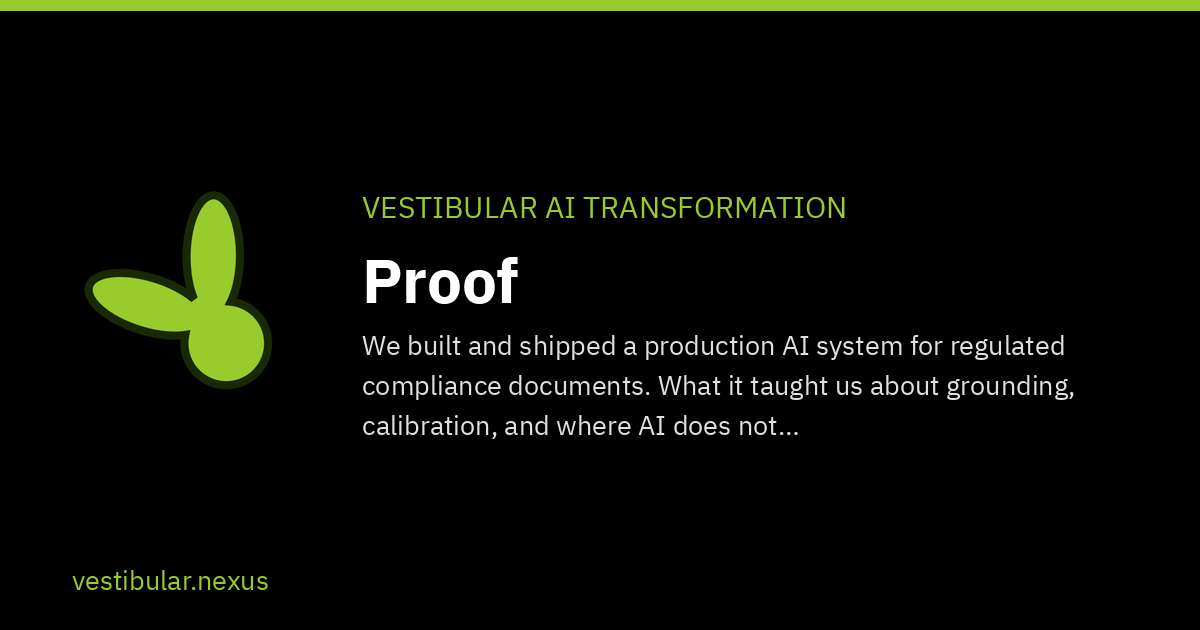
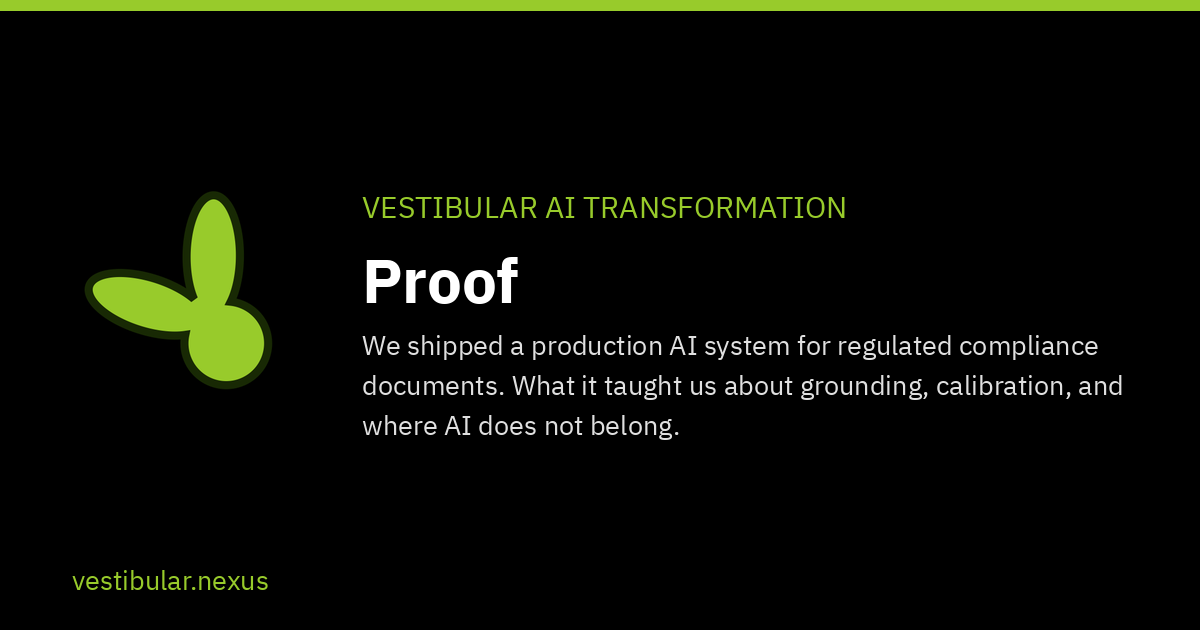
feat(meta): one description per page, and a guard that keeps it that way
One sentence was serving four pages. index.html, playbook.html and
services.html carried BYTE-IDENTICAL descriptions, and diagnostic.html carried
the same sentence with two clauses swapped — "rebuild morale, declutter Agile
tooling" against "declutter Agile tooling, rebuild morale". 11 pages held 9
distinct strings. Search engines were given one summary for four URLs, and two
cards drew identical description pixels under different headlines.

Only one of the four was actually WRONG rather than merely generic. playbook
and services are Agile pages, so an Agile sentence there wastes the snippet but
does not lie. index.html is a two-practice router — its own h1 reads "Fix your
framework. Flex AI. Free your humans." and its body asks "Two practices. Which
sounds like you?" — and it was describing itself to search as an Agile tooling
engagement.

So index.html takes the founder's option C: title becomes "Vestibular Agile &
AI Transformation", carrying the brand for a search result while the SHARE CARD
keeps the hero's voice from the parent commit. The two diverge deliberately and
now do so on top of a title that is true. Before this, the card said one thing
and the Google result said another, and the card being right made the stale
title easier to miss.

⚠ A CLAIM FROM THIS SESSION, CORRECTED. contact.html's description was reported
as naming "a product that does not exist" — the Agile Sanitation playbook. It
[…]

Changed region(s): [[0.3392, 0.5127, 0.925, 0.573], [0.3083, 0.6032, 0.9558, 0.6333], [0.3083, 0.6635, 0.6475, 0.6937]]

diff --git a/index.html b/index.html
@@ -4,7 +4,7 @@
 <!-- GENERATED:page_head START · source content/practices.json · regen: node tools/render_content.mjs · DO NOT EDIT BELOW -->
   <meta charset="utf-8" />
   <meta name="viewport" content="width=device-width,initial-scale=1" />
-  <meta name="description" content="Vestibular Agile Transformation helps tech teams declutter Agile tooling, rebuild morale, and scale with a modular, science-backed playbook." />
+  <meta name="description" content="Two consulting practices: Agile Transformation for delivery that has stalled, and AI-Transformational Business Analysis for AI that never lands." />
   <meta name="theme-color" content="#000000" />
 
   <!-- Favicons -->
@@ -13,7 +13,7 @@
   <link rel="icon" type="image/png" sizes="16x16" href="assets/favicon-16x16.png">
   <link rel="manifest" href="assets/site.webmanifest">
 
-  <title>Vestibular Agile Transformation</title>
+  <title>Vestibular Agile &amp; AI Transformation</title>
   <link rel="canonical" href="https://vestibular.nexus/" />
 
   <!-- Open Graph / Twitter. Cards are 1200x630 PNGs generated from this
@@ -22,15 +22,15 @@
   <meta property="og:type" content="website" />
   <meta property="og:site_name" content="Vestibular" />
   <meta property="og:url" content="https://vestibular.nexus/" />
-  <meta property="og:title" content="Vestibular Agile Transformation" />
-  <meta property="og:description" content="Vestibular Agile Transformation helps tech teams declutter Agile tooling, rebuild morale, and scale with a modular, science-backed playbook." />
+  <meta property="og:title" content="Vestibular Agile &amp; AI Transformation" />
+  <meta property="og:description" content="Two consulting practices: Agile Transformation for delivery that has stalled, and AI-Transformational Business Analysis for AI that never lands." />
   <meta property="og:image" content="https://vestibular.nexus/assets/og/index.png" />
   <meta property="og:image:width" content="1200" />
   <meta property="og:image:height" content="630" />
-  <meta property="og:image:alt" content="Vestibular Agile Transformation" />
+  <meta property="og:image:alt" content="Vestibular Agile &amp; AI Transformation" />
   <meta name="twitter:card" content="summary_large_image" />
-  <meta name="twitter:title" content="Vestibular Agile Transformation" />
-  <meta name="twitter:description" content="Vestibular Agile Transformation helps tech teams declutter Agile tooling, rebuild morale, and scale with a modular, science-backed playbook." />
+  <meta name="twitter:title" content="Vestibular Agile &amp; AI Transformation" />
+  <meta name="twitter:description" content="Two consulting practices: Agile Transformation for delivery that has stalled, and AI-Transformational Business Analysis for AI that never lands." />
   <meta name="twitter:image" content="https://vestibular.nexus/assets/og/index.png" />
 
   <link rel="preconnect" href="https://fonts.googleapis.com">

diff --git a/ai-transformation.html b/ai-transformation.html
@@ -4,7 +4,7 @@
 <!-- GENERATED:page_head START · source content/practices.json · regen: node tools/render_content.mjs · DO NOT EDIT BELOW -->
   <meta charset="utf-8" />
   <meta name="viewport" content="width=device-width,initial-scale=1" />
-  <meta name="description" content="AI-Transformational Business Analysis: operating model redesign, AI opportunity identification, and value modelling grounded in what your team already knows." />
+  <meta name="description" content="AI-Transformational Business Analysis: operating model redesign, AI opportunity identification and value modelling, grounded in what your team knows." />
   <meta name="theme-color" content="#000000" />
 
   <!-- Favicons -->
@@ -23,14 +23,14 @@
   <meta property="og:site_name" content="Vestibular" />
   <meta property="og:url" content="https://vestibular.nexus/ai-transformation" />
   <meta property="og:title" content="Vestibular AI Transformation – Business Analysis" />
-  <meta property="og:description" content="AI-Transformational Business Analysis: operating model redesign, AI opportunity identification, and value modelling grounded in what your team already knows." />
+  <meta property="og:description" content="AI-Transformational Business Analysis: operating model redesign, AI opportunity identification and value modelling, grounded in what your team knows." />
   <meta property="og:image" content="https://vestibular.nexus/assets/og/ai-transformation.png" />
   <meta property="og:image:width" content="1200" />
   <meta property="og:image:height" content="630" />
   <meta property="og:image:alt" content="Vestibular AI Transformation – Business Analysis" />
   <meta name="twitter:card" content="summary_large_image" />
   <meta name="twitter:title" content="Vestibular AI Transformation – Business Analysis" />
-  <meta name="twitter:description" content="AI-Transformational Business Analysis: operating model redesign, AI opportunity identification, and value modelling grounded in what your team already knows." />
+  <meta name="twitter:description" content="AI-Transformational Business Analysis: operating model redesign, AI opportunity identification and value modelling, grounded in what your team knows." />
   <meta name="twitter:image" content="https://vestibular.nexus/assets/og/ai-transformation.png" />
 
   <link rel="preconnect" href="https://fonts.googleapis.com">

diff --git a/contact.html b/contact.html
@@ -4,7 +4,7 @@
 <!-- GENERATED:page_head START · source content/practices.json · regen: node tools/render_content.mjs · DO NOT EDIT BELOW -->
   <meta charset="utf-8" />
   <meta name="viewport" content="width=device-width,initial-scale=1" />
-  <meta name="description" content="Contact Vestibular Agile Transformation — book a consult or ask about our Agile Sanitation playbook." />
+  <meta name="description" content="Start with a free conversation about what is slowing your team down. We will tell you where we can help, and where we cannot." />
   <meta name="theme-color" content="#000000" />
 
   <!-- Favicons -->
@@ -23,14 +23,14 @@
   <meta property="og:site_name" content="Vestibular" />
   <meta property="og:url" content="https://vestibular.nexus/contact" />
   <meta property="og:title" content="Contact – Vestibular" />
-  <meta property="og:description" content="Contact Vestibular Agile Transformation — book a consult or ask about our Agile Sanitation playbook." />
+  <meta property="og:description" content="Start with a free conversation about what is slowing your team down. We will tell you where we can help, and where we cannot." />
   <meta property="og:image" content="https://vestibular.nexus/assets/og/contact.png" />
   <meta property="og:image:width" content="1200" />
   <meta property="og:image:height" content="630" />
   <meta property="og:image:alt" content="Contact – Vestibular" />
   <meta name="twitter:card" content="summary_large_image" />
   <meta name="twitter:title" content="Contact – Vestibular" />
-  <meta name="twitter:description" content="Contact Vestibular Agile Transformation — book a consult or ask about our Agile Sanitation playbook." />
+  <meta name="twitter:description" content="Start with a free conversation about what is slowing your team down. We will tell you where we can help, and where we cannot." />
   <meta name="twitter:image" content="https://vestibular.nexus/assets/og/contact.png" />
 
   <link rel="preconnect" href="https://fonts.googleapis.com">
@@ -87,8 +87,8 @@
     <div class="hero-content">
       <h1>
         <span>Show us the chaos.</span><br />
-        <span>We'll help you map</span><br />
-        <span>the clarity.</span>
+        <span>We'll draw a map</span><br />
+        <span>to clarity.</span>
       </h1>
 
       <p class="highlighted-intro">

diff --git a/ai-proof.html b/ai-proof.html
@@ -4,7 +4,7 @@
 <!-- GENERATED:page_head START · source content/practices.json · regen: node tools/render_content.mjs · DO NOT EDIT BELOW -->
   <meta charset="utf-8" />
   <meta name="viewport" content="width=device-width,initial-scale=1" />
-  <meta name="description" content="We built and shipped a production AI system for regulated compliance documents. What it taught us about grounding, calibration, and where AI does not belong." />
+  <meta name="description" content="We shipped a production AI system for regulated compliance documents. What it taught us about grounding, calibration, and where AI does not belong." />
   <meta name="theme-color" content="#000000" />
 
   <!-- Favicons -->
@@ -23,14 +23,14 @@
   <meta property="og:site_name" content="Vestibular" />
   <meta property="og:url" content="https://vestibular.nexus/ai-proof" />
   <meta property="og:title" content="Vestibular AI Transformation – Proof" />
-  <meta property="og:description" content="We built and shipped a production AI system for regulated compliance documents. What it taught us about grounding, calibration, and where AI does not belong." />
+  <meta property="og:description" content="We shipped a production AI system for regulated compliance documents. What it taught us about grounding, calibration, and where AI does not belong." />
   <meta property="og:image" content="https://vestibular.nexus/assets/og/ai-proof.png" />
   <meta property="og:image:width" content="1200" />
   <meta property="og:image:height" content="630" />
   <meta property="og:image:alt" content="Vestibular AI Transformation – Proof" />
   <meta name="twitter:card" content="summary_large_image" />
   <meta name="twitter:title" content="Vestibular AI Transformation – Proof" />
-  <meta name="twitter:description" content="We built and shipped a production AI system for regulated compliance documents. What it taught us about grounding, calibration, and where AI does not belong." />
+  <meta name="twitter:description" content="We shipped a production AI system for regulated compliance documents. What it taught us about grounding, calibration, and where AI does not belong." />
   <meta name="twitter:image" content="https://vestibular.nexus/assets/og/ai-proof.png" />
 
   <link rel="preconnect" href="https://fonts.googleapis.com">

diff --git a/ai-services.html b/ai-services.html
@@ -4,7 +4,7 @@
 <!-- GENERATED:page_head START · source content/practices.json · regen: node tools/render_content.mjs · DO NOT EDIT BELOW -->
   <meta charset="utf-8" />
   <meta name="viewport" content="width=device-width,initial-scale=1" />
-  <meta name="description" content="Six AI-Transformational Business Analysis services: readiness assessment, value case, operating model redesign, requirements and governance, roadmap, and adoption." />
+  <meta name="description" content="Six AI-Transformational Business Analysis services: readiness, value case, operating model redesign, governance, roadmap and adoption." />
   <meta name="theme-color" content="#000000" />
 
   <!-- Favicons -->
@@ -23,14 +23,14 @@
   <meta property="og:site_name" content="Vestibular" />
   <meta property="og:url" content="https://vestibular.nexus/ai-services" />
   <meta property="og:title" content="Vestibular AI Transformation – Services" />
-  <meta property="og:description" content="Six AI-Transformational Business Analysis services: readiness assessment, value case, operating model redesign, requirements and governance, roadmap, and adoption." />
+  <meta property="og:description" content="Six AI-Transformational Business Analysis services: readiness, value case, operating model redesign, governance, roadmap and adoption." />
   <meta property="og:image" content="https://vestibular.nexus/assets/og/ai-services.png" />
   <meta property="og:image:width" content="1200" />
   <meta property="og:image:height" content="630" />
   <meta property="og:image:alt" content="Vestibular AI Transformation – Services" />
   <meta name="twitter:card" content="summary_large_image" />
   <meta name="twitter:title" content="Vestibular AI Transformation – Services" />
-  <meta name="twitter:description" content="Six AI-Transformational Business Analysis services: readiness assessment, value case, operating model redesign, requirements and governance, roadmap, and adoption." />
+  <meta name="twitter:description" content="Six AI-Transformational Business Analysis services: readiness, value case, operating model redesign, governance, roadmap and adoption." />
   <meta name="twitter:image" content="https://vestibular.nexus/assets/og/ai-services.png" />
 
   <link rel="preconnect" href="https://fonts.googleapis.com">

diff --git a/diagnostic.html b/diagnostic.html
@@ -4,7 +4,7 @@
 <!-- GENERATED:page_head START · source content/practices.json · regen: node tools/render_content.mjs · DO NOT EDIT BELOW -->
   <meta charset="utf-8" />
   <meta name="viewport" content="width=device-width,initial-scale=1" />
-  <meta name="description" content="Vestibular Agile Transformation helps tech teams rebuild morale, declutter Agile tooling, and scale with a modular, science-backed playbook." />
+  <meta name="description" content="The Agile diagnostic scorecard: place your team on the maturity lens, then follow the modular progression that fits where it actually sits." />
   <meta name="theme-color" content="#000000" />
 
   <!-- Favicons -->
@@ -23,14 +23,14 @@
   <meta property="og:site_name" content="Vestibular" />
   <meta property="og:url" content="https://vestibular.nexus/diagnostic" />
   <meta property="og:title" content="Vestibular Agile Transformation – Diagnostic" />
-  <meta property="og:description" content="Vestibular Agile Transformation helps tech teams rebuild morale, declutter Agile tooling, and scale with a modular, science-backed playbook." />
+  <meta property="og:description" content="The Agile diagnostic scorecard: place your team on the maturity lens, then follow the modular progression that fits where it actually sits." />
   <meta property="og:image" content="https://vestibular.nexus/assets/og/diagnostic.png" />
   <meta property="og:image:width" content="1200" />
   <meta property="og:image:height" content="630" />
   <meta property="og:image:alt" content="Vestibular Agile Transformation – Diagnostic" />
   <meta name="twitter:card" content="summary_large_image" />
   <meta name="twitter:title" content="Vestibular Agile Transformation – Diagnostic" />
-  <meta name="twitter:description" content="Vestibular Agile Transformation helps tech teams rebuild morale, declutter Agile tooling, and scale with a modular, science-backed playbook." />
+  <meta name="twitter:description" content="The Agile diagnostic scorecard: place your team on the maturity lens, then follow the modular progression that fits where it actually sits." />
   <meta name="twitter:image" content="https://vestibular.nexus/assets/og/diagnostic.png" />
 
   <link rel="preconnect" href="https://fonts.googleapis.com">

diff --git a/services.html b/services.html
@@ -4,7 +4,7 @@
 <!-- GENERATED:page_head START · source content/practices.json · regen: node tools/render_content.mjs · DO NOT EDIT BELOW -->
   <meta charset="utf-8" />
   <meta name="viewport" content="width=device-width,initial-scale=1" />
-  <meta name="description" content="Vestibular Agile Transformation helps tech teams declutter Agile tooling, rebuild morale, and scale with a modular, science-backed playbook." />
+  <meta name="description" content="Six standalone Agile modules that compound: morale-first consulting, tools sanitation, sprint clarity, role design, delivery flow and coaching." />
   <meta name="theme-color" content="#000000" />
 
   <!-- Favicons -->
@@ -23,14 +23,14 @@
   <meta property="og:site_name" content="Vestibular" />
   <meta property="og:url" content="https://vestibular.nexus/services" />
   <meta property="og:title" content="Vestibular Agile Transformation – Services" />
-  <meta property="og:description" content="Vestibular Agile Transformation helps tech teams declutter Agile tooling, rebuild morale, and scale with a modular, science-backed playbook." />
+  <meta property="og:description" content="Six standalone Agile modules that compound: morale-first consulting, tools sanitation, sprint clarity, role design, delivery flow and coaching." />
   <meta property="og:image" content="https://vestibular.nexus/assets/og/services.png" />
   <meta property="og:image:width" content="1200" />
   <meta property="og:image:height" content="630" />
   <meta property="og:image:alt" content="Vestibular Agile Transformation – Services" />
   <meta name="twitter:card" content="summary_large_image" />
   <meta name="twitter:title" content="Vestibular Agile Transformation – Services" />
-  <meta name="twitter:description" content="Vestibular Agile Transformation helps tech teams declutter Agile tooling, rebuild morale, and scale with a modular, science-backed playbook." />
+  <meta name="twitter:description" content="Six standalone Agile modules that compound: morale-first consulting, tools sanitation, sprint clarity, role design, delivery flow and coaching." />
   <meta name="twitter:image" content="https://vestibular.nexus/assets/og/services.png" />
 
   <link rel="preconnect" href="https://fonts.googleapis.com">

diff --git a/playbook.html b/playbook.html
@@ -4,7 +4,7 @@
 <!-- GENERATED:page_head START · source content/practices.json · regen: node tools/render_content.mjs · DO NOT EDIT BELOW -->
   <meta charset="utf-8" />
   <meta name="viewport" content="width=device-width,initial-scale=1" />
-  <meta name="description" content="Vestibular Agile Transformation helps tech teams declutter Agile tooling, rebuild morale, and scale with a modular, science-backed playbook." />
+  <meta name="description" content="The Agile playbook: a diagnostic lens and package progression from Declutter to Optimize, with AI augmentation embedded at every stage." />
   <meta name="theme-color" content="#000000" />
 
   <!-- Favicons -->
@@ -23,14 +23,14 @@
   <meta property="og:site_name" content="Vestibular" />
   <meta property="og:url" content="https://vestibular.nexus/playbook" />
   <meta property="og:title" content="Vestibular Agile Transformation – Playbook" />
-  <meta property="og:description" content="Vestibular Agile Transformation helps tech teams declutter Agile tooling, rebuild morale, and scale with a modular, science-backed playbook." />
+  <meta property="og:description" content="The Agile playbook: a diagnostic lens and package progression from Declutter to Optimize, with AI augmentation embedded at every stage." />
   <meta property="og:image" content="https://vestibular.nexus/assets/og/playbook.png" />
   <meta property="og:image:width" content="1200" />
   <meta property="og:image:height" content="630" />
   <meta property="og:image:alt" content="Vestibular Agile Transformation – Playbook" />
   <meta name="twitter:card" content="summary_large_image" />
   <meta name="twitter:title" content="Vestibular Agile Transformation – Playbook" />
-  <meta name="twitter:description" content="Vestibular Agile Transformation helps tech teams declutter Agile tooling, rebuild morale, and scale with a modular, science-backed playbook." />
+  <meta name="twitter:description" content="The Agile playbook: a diagnostic lens and package progression from Declutter to Optimize, with AI augmentation embedded at every stage." />
   <meta name="twitter:image" content="https://vestibular.nexus/assets/og/playbook.png" />
 
   <link rel="preconnect" href="https://fonts.googleapis.com">

diff --git a/tools/build_og_images.py b/tools/build_og_images.py
@@ -109,7 +109,14 @@ def title_lines_for(page: str, draw, font, max_w: int, cap: int) -> list[str]:
     lines: list[str] = []
     for part in parts:
         lines.extend(wrap(draw, part, font, max_w))
-    return lines[:cap]
+    if len(lines) > cap:
+        sys.exit(
+            f"FAIL: title needs {len(lines)} lines, cap is {cap}.\n"
+            f"  title:   {page!r}\n"
+            f"  dropped: {lines[cap:]!r}\n"
+            f"  Shorten it, or give it fewer phrases."
+        )
+    return lines
 
 
 def split_title(title: str) -> tuple[str, str]:
@@ -138,7 +145,21 @@ def build_card(page_file: str, title: str, description: str, logo: Image.Image) 
 
     brand, page = split_title(title)
     title_lines = title_lines_for(page, draw, f_title, max_w, cap=3)
-    desc_lines = wrap(draw, description, f_desc, max_w)[:3]
+    desc_lines = wrap(draw, description, f_desc, max_w)
+
+    # ⛔ OVERFLOW IS A FAILURE, NOT A TRUNCATION. Both of these used to be
+    # sliced — wrap(...)[:2] and wrap(...)[:3] — so a description one clause too
+    # long lost its tail with no ellipsis and no warning, and the card rendered
+    # happily. The 155-character trim above does NOT cover this: it counts
+    # characters while the cap counts rendered lines, and a measured
+    # 89-character string in wide glyphs still wraps to four.
+    if len(desc_lines) > 3:
+        sys.exit(
+            f"FAIL: {page_file} description needs {len(desc_lines)} lines, cap is 3.\n"
+            f"  drawn text: {description!r}\n"
+            f"  dropped:    {desc_lines[3:]!r}\n"
+            f"  Shorten content/pages.json's description for this page."
+        )
 
     # Measure the block, then centre it. Cards have between one and two title
     # lines and one to three description lines, so a fixed offset leaves the
